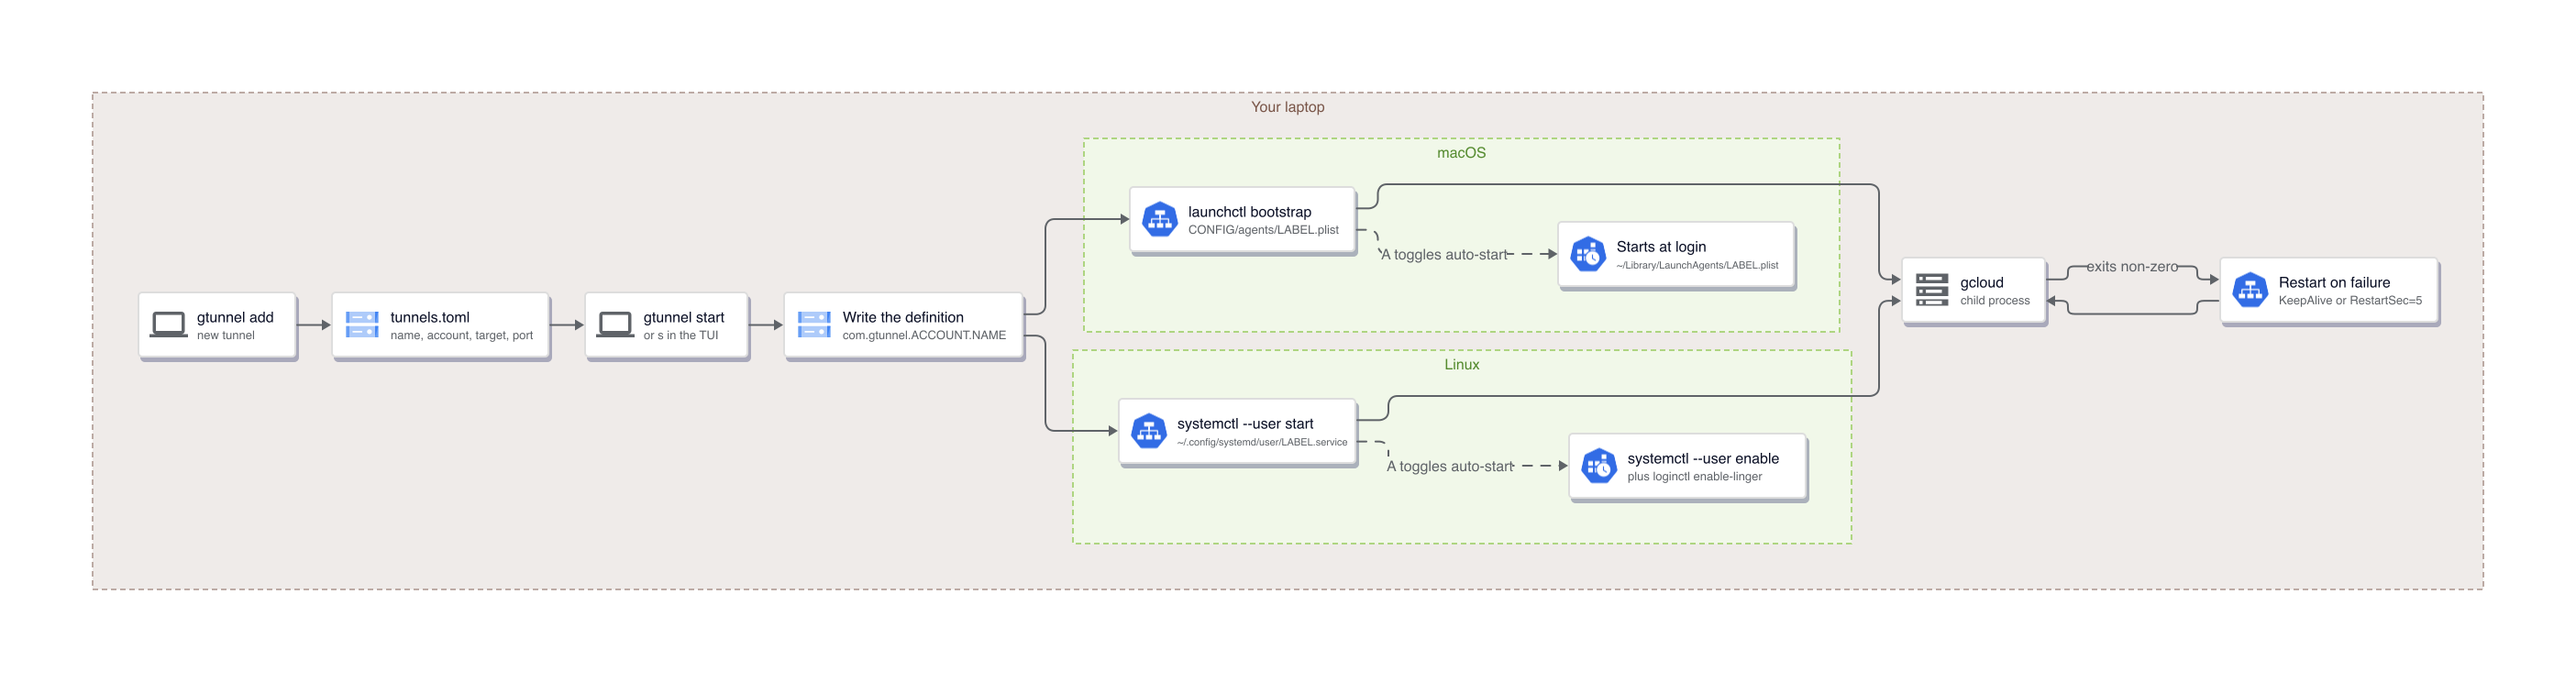
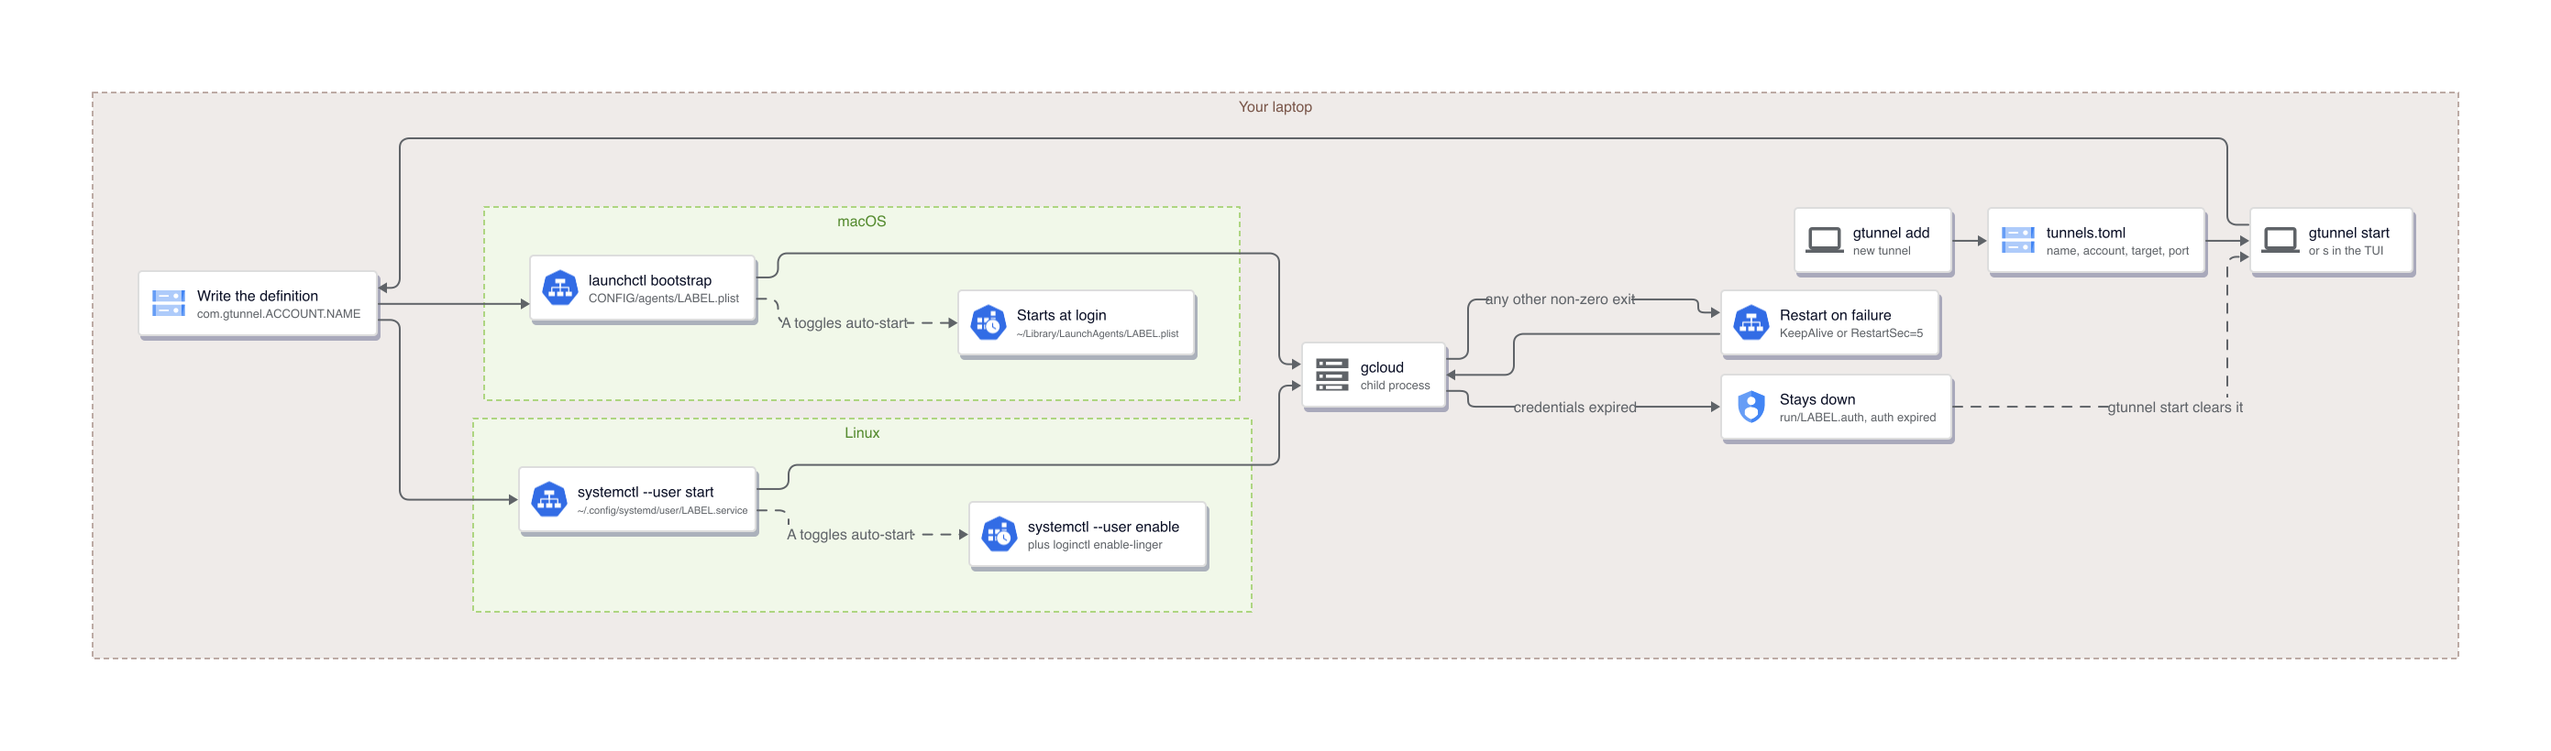
docs(architecture): show that expired credentials stop the restart loop (#203)
The service lifecycle diagram sent every non-zero gcloud exit back to
Restart on failure, contradicting the prose since #193. Add a Stays down
node (run/LABEL.auth, auth expired) reached on credentials expired, with a
dashed edge back to gtunnel start, relabel the restart edge to any other
non-zero exit, and name the new node and edges in the alt text.

Closes #201

diff --git a/docs/architecture.md b/docs/architecture.md
@@ -159,7 +159,7 @@ services first. It never touches the Cloud DNS managed zone, which is yours.
 
 One diagram for both platforms: the shape is the same and only the manager differs.
 
-![Service lifecycle: gtunnel add records the tunnel in tunnels.toml (name, account, target, local port), gtunnel start or s in the TUI writes the definition labelled com.gtunnel.ACCOUNT.NAME, then on macOS launchctl bootstrap loads CONFIG/agents/LABEL.plist and on Linux systemctl --user start loads ~/.config/systemd/user/LABEL.service; both run the gcloud child process, which on a non-zero exit is restarted by KeepAlive or Restart=on-failure RestartSec=5; A toggles auto-start, which on macOS is ~/Library/LaunchAgents/LABEL.plist starting at login and on Linux is systemctl --user enable plus loginctl enable-linger](images/architecture/gtunnel-service-lifecycle.png)
+![Service lifecycle: gtunnel add records the tunnel in tunnels.toml (name, account, target, local port), gtunnel start or s in the TUI writes the definition labelled com.gtunnel.ACCOUNT.NAME, then on macOS launchctl bootstrap loads CONFIG/agents/LABEL.plist and on Linux systemctl --user start loads ~/.config/systemd/user/LABEL.service; both run the gcloud child process, which on any other non-zero exit is restarted by KeepAlive or Restart=on-failure RestartSec=5, while credentials expired leaves it Stays down with run/LABEL.auth and auth expired until gtunnel start clears it; A toggles auto-start, which on macOS is ~/Library/LaunchAgents/LABEL.plist starting at login and on Linux is systemctl --user enable plus loginctl enable-linger](images/architecture/gtunnel-service-lifecycle.png)
 
 A restart cannot renew a login, so a supervisor that sees gcloud die of `Reauthentication required` stops the loop and leaves `run/<label>.auth` behind, which keeps `list` on `auth expired` after the log goes quiet. It exits 0 on macOS, where `KeepAlive` restarts every non-zero exit, and 78 on Linux, which the unit lists in `RestartPreventExitStatus`. `gtunnel start`, and the supervisor itself, clear the marker.
 

diff --git a/docs/images/architecture/gtunnel-service-lifecycle.md b/docs/images/architecture/gtunnel-service-lifecycle.md
@@ -25,6 +25,7 @@ nodes:
 - id: en, label: "systemctl --user enable", subtitle: "plus loginctl enable-linger", icon: cronjob, parent: lin
 - id: proc, label: "gcloud", subtitle: "child process", icon: server, parent: local
 - id: again, label: "Restart on failure", subtitle: "KeepAlive or RestartSec=5", icon: service, parent: local
+- id: down, label: "Stays down", subtitle: "run/LABEL.auth, auth expired", icon: iam, parent: local
 edges:
 - from: add, to: rec
 - from: rec, to: start
@@ -33,7 +34,9 @@ edges:
 - from: write, to: linload
 - from: macload, to: proc
 - from: linload, to: proc
-- from: proc, to: again, label: "exits non-zero"
+- from: proc, to: again, label: "any other non-zero exit"
+- from: proc, to: down, label: "credentials expired"
+- from: down, to: start, label: "gtunnel start clears it", style: dashed
 - from: again, to: proc
 - from: macload, to: la, label: "A toggles auto-start", style: dashed
 - from: linload, to: en, label: "A toggles auto-start", style: dashed
